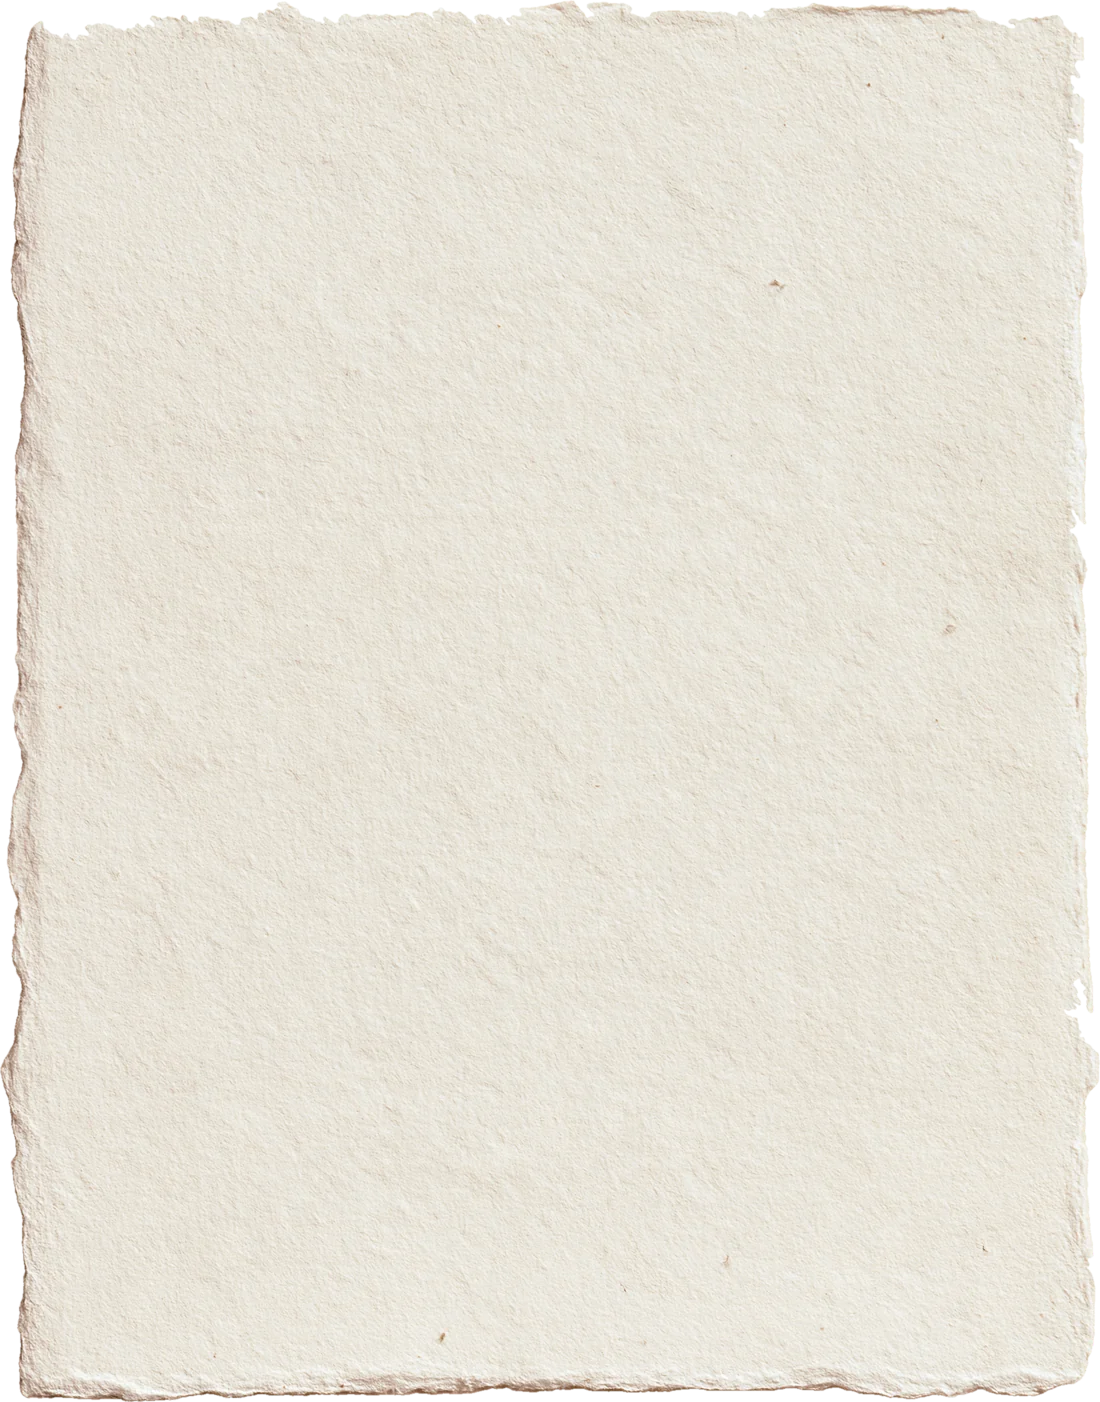
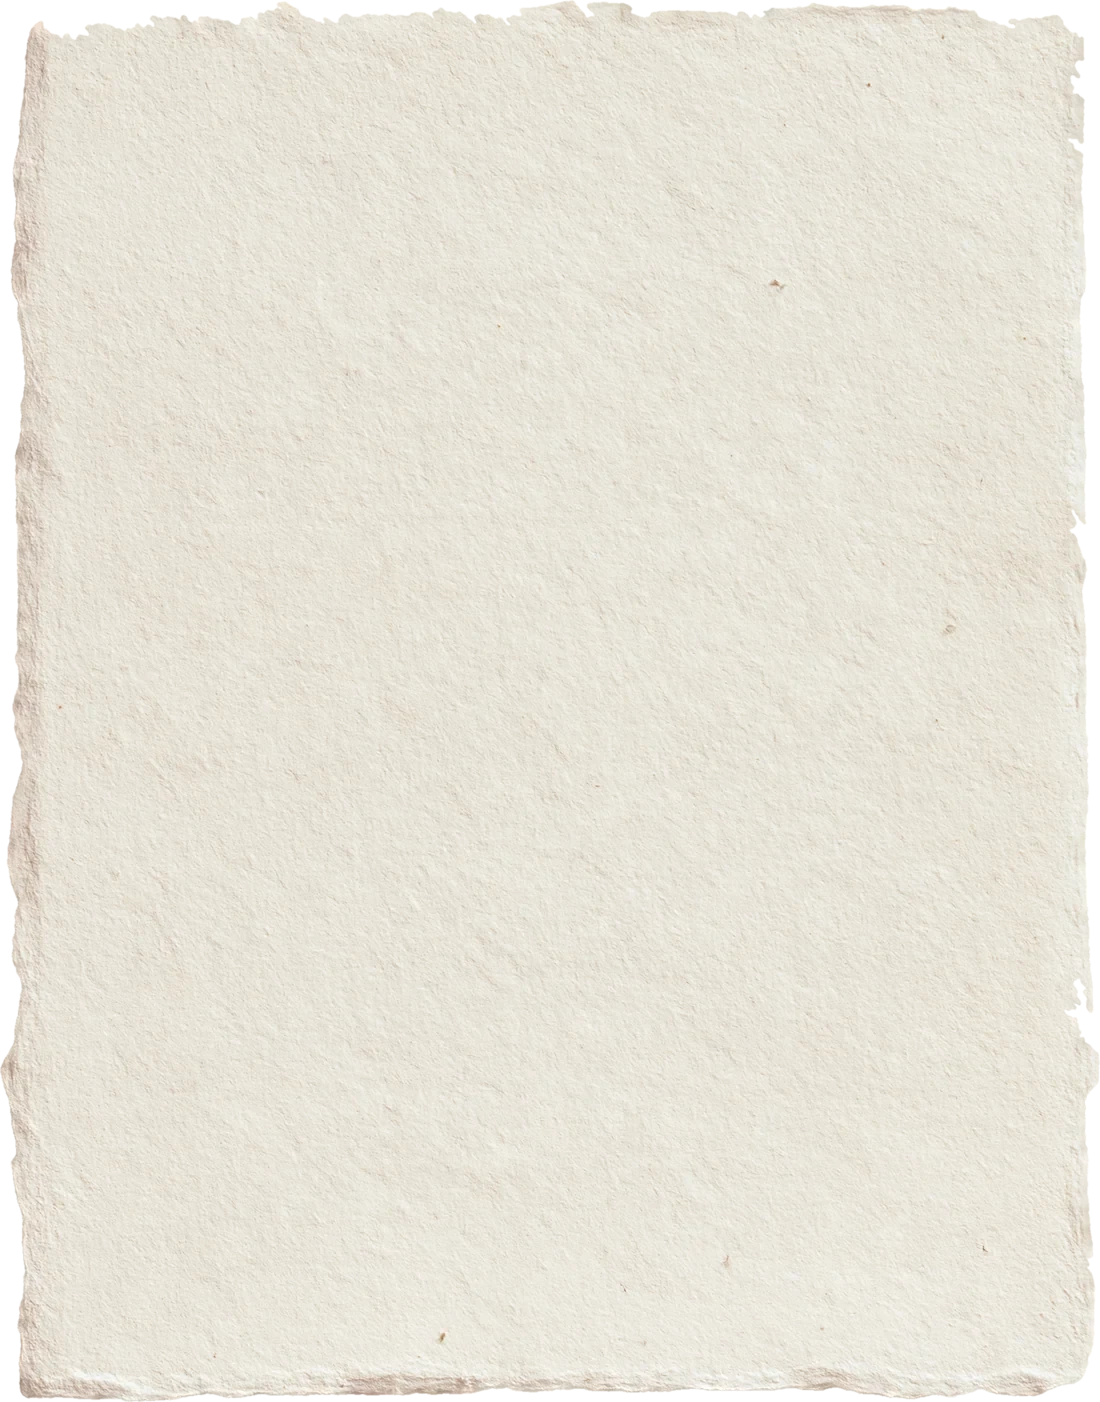
Wish: matched letter and box, a hand-drawn check, and a 3D drop-in
The letter and wishing box are the same size, the green tick is drawn to
fit the page, and the letter tilts into the slot like a solid object.
The Dear Friend letter now centres in the viewport with a softer shadow.

diff --git a/public/assets/site.css b/public/assets/site.css
@@ -1627,8 +1627,8 @@ body::after{ content: ""; position: absolute; inset: 0; z-index: 9990; pointer-e
 .island-hero, .intro-strip, .section, .letter-sec, .proof, .rides, .days, .joy-teaser, .site-header.solid{ background: transparent !important; }
 body[data-page="home"] .site-header.solid{ background: rgba(244,241,234,.88) !important; }
 /* letter: the deckled handmade sheet */
-.mail .letter{ background: url("img/letter-paper.webp?v=2") center / 100% 100% no-repeat; box-shadow: none; border-radius: 0;
-  filter: drop-shadow(0 2px 2px rgba(42,36,32,.16)) drop-shadow(0 18px 22px rgba(42,36,32,.22));
+.mail .letter{ background: url("img/letter-paper.webp?v=3") center / 100% 100% no-repeat; box-shadow: none; border-radius: 0;
+  filter: drop-shadow(0 1px 1px rgba(42,36,32,.10)) drop-shadow(0 10px 16px rgba(42,36,32,.12));
   min-height: calc(min(470px, 92vw) * 1402 / 1100); padding: 44px 42px 44px; }
 .mail.is-open .letter{ cursor: pointer; }
 .mail .letter{ transition: transform .24s cubic-bezier(.4,0,.2,1), clip-path .24s cubic-bezier(.4,0,.2,1); }
@@ -1817,39 +1817,53 @@ html, body{ overflow-x: clip; }
 .wishrow__copy h2{ text-align: left; }
 .wishrow__copy .lede{ margin: 0 0 14px !important; max-width: 26em; }
 .finale .finale__cta{ margin: 26px 0 0; border-top: 2px dashed rgba(42,36,32,.25); padding-top: 22px; max-width: none; text-align: left; }
-.wishrow__desk{ position: relative; display: flex; flex-direction: column; align-items: center; gap: 18px; }
-.wishpaper{ --lh: 2.1rem; position: relative; width: min(420px, 100%); aspect-ratio: 1100 / 1402; padding: 64px 40px 40px 58px; margin: 0;
+.wishrow__desk{ --wish-w: min(340px, 100%); position: relative; display: flex; flex-direction: column; align-items: center; gap: 22px; }
+.wishpaper{ --lh: 1.75rem; position: relative; z-index: 2; width: var(--wish-w); aspect-ratio: 1100 / 1402; padding: 52px 32px 34px 48px; margin: 0;
   background:
-    linear-gradient(90deg, transparent 44px, rgba(226,86,44,.45) 44px, rgba(226,86,44,.45) 46px, transparent 46px),
-    repeating-linear-gradient(180deg, transparent 0 calc(var(--lh) - 1px), rgba(5,136,196,.28) calc(var(--lh) - 1px) var(--lh)) 0 64px / 100% calc(100% - 100px) no-repeat,
+    linear-gradient(90deg, transparent 36px, rgba(226,86,44,.45) 36px, rgba(226,86,44,.45) 38px, transparent 38px),
+    repeating-linear-gradient(180deg, transparent 0 calc(var(--lh) - 1px), rgba(5,136,196,.28) calc(var(--lh) - 1px) var(--lh)) 0 52px / 100% calc(100% - 84px) no-repeat,
     linear-gradient(rgba(255,220,95,.62), rgba(255,200,70,.55)),
-    url("img/letter-paper.webp?v=2") center / 100% 100% no-repeat;
+    url("img/letter-paper.webp?v=3") center / 100% 100% no-repeat;
   background-blend-mode: normal, multiply, multiply, normal;
   filter: drop-shadow(0 2px 2px rgba(42,36,32,.15)) drop-shadow(0 16px 20px rgba(42,36,32,.2)); transform: rotate(-1.5deg);
   transition: transform .5s cubic-bezier(.5,0,.75,0), opacity .4s ease; }
 .wishpaper__text{ display: block; width: 100%; height: 100%; resize: none; border: 0; outline: none; background: transparent; padding: 0;
-  font-family: var(--f-letter); font-size: 1.6rem; line-height: var(--lh); color: #1f3e5a; caret-color: #1f3e5a; }
+  font-family: var(--f-letter); font-size: 1.35rem; line-height: var(--lh); color: #1f3e5a; caret-color: #1f3e5a; }
 .wishpaper__text::placeholder{ color: rgba(42,36,32,.32); }
 /* a blinking cursor waiting at the start of the first line */
-.wishpaper__caret{ position: absolute; left: 58px; top: 70px; width: 2px; height: 1.5rem; background: #1f3e5a; opacity: 0; pointer-events: none; }
+.wishpaper__caret{ position: absolute; left: 48px; top: 56px; width: 2px; height: 1.25rem; background: #1f3e5a; opacity: 0; pointer-events: none; }
 .wishpaper.is-empty:not(:focus-within) .wishpaper__caret{ animation: caret-blink 1.05s steps(1) infinite; }
 @keyframes caret-blink{ 0%, 49%{ opacity: .85; } 50%, 100%{ opacity: 0; } }
-.wishpaper__check{ position: absolute; right: 24px; bottom: 26px; width: 54px; height: 54px; border-radius: 50%; border: 0; cursor: pointer;
-  color: #fff; background: radial-gradient(circle at 38% 32%, #6fd39a, #35a468 55%, #1d6a40); box-shadow: 0 4px 0 #1d6a40, 0 8px 12px rgba(42,36,32,.25);
-  transition: transform .15s ease, box-shadow .15s ease; }
-.wishpaper__check svg{ width: 60%; height: 60%; display: block; margin: auto; }
-.wishpaper__check:hover{ transform: translateY(-2px) scale(1.05); }
-.wishpaper__check:active{ transform: translateY(3px); box-shadow: 0 1px 0 #1d6a40, 0 3px 6px rgba(42,36,32,.25); }
-.wishpaper__check:focus-visible{ outline: 3px solid var(--c-lochmara); outline-offset: 4px; }
+.wishpaper__check{ position: absolute; right: 18px; bottom: 20px; width: 62px; height: 62px; padding: 0; border: 0; border-radius: 50%; cursor: pointer; background: none; color: #2a2420;
+  filter: drop-shadow(1px 3px 0 rgba(42,36,32,.22)); transform: rotate(-3deg); transition: transform .22s cubic-bezier(.3,1.5,.5,1), filter .2s ease; }
+.wishpaper__check svg{ width: 100%; height: 100%; display: block; overflow: visible; }
+/* hand-drawn: crayon fill that doesn't quite meet the pencil line, a doubled inked outline, a thick inked tick */
+.chk__shade{ fill: #1d7a47; opacity: .85; }
+.chk__fill{ fill: #4cbd7d; }
+.chk__hatch path{ fill: none; stroke: #8fe0ab; stroke-width: 2.2; stroke-linecap: round; opacity: .55; }
+.chk__ink{ fill: none; stroke: #2a2420; stroke-width: 2.4; stroke-linecap: round; stroke-linejoin: round; }
+.chk__ink--2{ stroke-width: 1.1; opacity: .55; }
+.chk__tick-ink{ fill: none; stroke: #2a2420; stroke-width: 10; stroke-linecap: round; stroke-linejoin: round; }
+.chk__tick{ fill: none; stroke: #fffaf0; stroke-width: 6; stroke-linecap: round; stroke-linejoin: round; stroke-dasharray: 60; stroke-dashoffset: 0; }
+.wishpaper__check:hover{ transform: rotate(-7deg) scale(1.07); filter: drop-shadow(1px 4px 0 rgba(42,36,32,.2)); }
+.wishpaper__check:hover .chk__tick{ animation: chk-draw .4s ease-out; }
+.wishpaper__check:active{ transform: translateY(2px) rotate(-2deg) scale(.94); filter: drop-shadow(0 1px 0 rgba(42,36,32,.25)); transition-duration: .08s; }
+.wishpaper__check:focus-visible{ outline: 3px solid var(--c-lochmara); outline-offset: 4px; border-radius: 50%; }
+@keyframes chk-draw{ from{ stroke-dashoffset: 60; } to{ stroke-dashoffset: 0; } }
 .wishpaper.is-nudge{ animation: paper-nudge .4s ease; }
 @keyframes paper-nudge{ 25%{ transform: rotate(-1.5deg) translateX(-8px); } 75%{ transform: rotate(-1.5deg) translateX(8px); } }
-/* sending: fold small, fly into the slot, disappear */
-.wishpaper.is-sending{ transform: translate(var(--to-x), var(--to-y)) rotate(8deg) scale(.08, .05); opacity: 0;
-  transition: transform .9s cubic-bezier(.45,0,.3,1), opacity .3s ease .62s; }
+/* sending: the letter folds narrow, tilts in 3D and slides down the slot (animated in home.js); the front of the box is redrawn over it so it passes behind the lip */
+.wishpaper.is-sending{ pointer-events: none; transition: none; will-change: transform; }
 .wishpaper.is-fresh{ animation: paper-fresh .5s ease both; }
 @keyframes paper-fresh{ from{ opacity: 0; transform: rotate(-1.5deg) translateY(-16px); } to{ opacity: 1; transform: rotate(-1.5deg); } }
-.wishbox{ width: min(240px, 60%); height: auto; filter: drop-shadow(0 12px 14px rgba(42,36,32,.2)); transition: transform .25s cubic-bezier(.3,1.6,.5,1), filter .3s ease; }
-.wishbox.is-catching{ transform: translateY(4px) scale(1.04); filter: drop-shadow(0 0 18px rgba(255,214,120,.9)) drop-shadow(0 12px 14px rgba(42,36,32,.2)); }
+.wishbox{ position: relative; width: var(--wish-w); }
+.wishbox__img{ position: relative; z-index: 1; display: block; width: 100%; height: auto; filter: drop-shadow(0 12px 14px rgba(42,36,32,.2)); transform-origin: 50% 90%; }
+.wishbox__front{ position: absolute; inset: 0; z-index: 3; width: 100%; height: 100%; opacity: 0; pointer-events: none; transform-origin: 50% 90%;
+  clip-path: polygon(0 11.7%, 100% 35.7%, 100% 100%, 0 100%); }
+.wishbox.is-receiving .wishbox__front{ opacity: 1; }
+.wishbox.is-catching .wishbox__img, .wishbox.is-catching .wishbox__front{ animation: box-catch .55s cubic-bezier(.3,1.4,.5,1); }
+.wishbox.is-catching .wishbox__img{ filter: drop-shadow(0 0 18px rgba(255,214,120,.9)) drop-shadow(0 12px 14px rgba(42,36,32,.2)); }
+@keyframes box-catch{ 0%{ transform: none; } 30%{ transform: translateY(5px) scale(1.035, .965); } 65%{ transform: translateY(-2px) scale(.99, 1.01); } 100%{ transform: none; } }
 /* the cake: wider than the screen, only the top half shows */
 .cake--big{ margin-top: clamp(30px, 5vw, 70px); text-align: center; }
 .cake--big .cake__hint{ position: relative; z-index: 2; margin: 0 0 10px; }
@@ -1860,6 +1874,7 @@ html, body{ overflow-x: clip; }
 .cake--big .candle__flame{ width: 240%; }
 .cake--big .cake__hint{ order: -1; }
 .cake--big{ display: flex; flex-direction: column; }
+
 .confetti-rain{ position: fixed; inset: 0; width: 100vw; height: 100vh; z-index: 9995; pointer-events: none; }
 @media (max-width: 820px){ .wishrow{ grid-template-columns: 1fr; } }
 
@@ -1884,6 +1899,7 @@ body{ isolation: isolate; }
 /* letter: 20% wider, height follows the words (so it's shorter), clean deckled sheet */
 .mail .letter{ width: min(564px, 94vw); margin-left: calc(min(564px, 94vw) / -2); min-height: 0 !important; padding: 48px 52px 46px; }
 @media (max-width: 520px){ .mail .letter{ padding: 34px 26px 32px; } }
+
 /* =====================================================================
    TWO DOORS, Wonderland: separate whimsical doors; one leaf each that
    swings open on its hinge, the knob on the free edge

diff --git a/public/assets/home.js b/public/assets/home.js
@@ -287,20 +287,35 @@
       if (busy) return;
       if (!input.value.trim()){ form.classList.remove("is-nudge"); void form.offsetWidth; form.classList.add("is-nudge"); input.focus(); return; }
       busy = true; input.blur();
-      // aim the folded paper at the slot in the box's lid
-      var pr = form.getBoundingClientRect(), br = box.getBoundingClientRect();
-      form.style.setProperty("--to-x", (br.left + br.width * .52 - (pr.left + pr.width / 2)).toFixed(0) + "px");
-      form.style.setProperty("--to-y", (br.top + br.height * .2 - (pr.top + pr.height / 2)).toFixed(0) + "px");
-      form.classList.add("is-sending");
-      setTimeout(function(){ box.classList.add("is-catching"); }, reduced ? 0 : 650);
-      setTimeout(function(){
+      var anim = null;
+      function done(){
         n++; input.value = ""; sync();
+        if (anim){ anim.cancel(); anim = null; }
+        form.style.transformOrigin = "";
         form.classList.remove("is-sending"); form.classList.add("is-fresh");
-        box.classList.remove("is-catching");
+        box.classList.remove("is-receiving");
         count.textContent = n === 1 ? "Your wish is in the box. Now blow out the candles." : n + " wishes in the box. Blow out the candles for luck.";
         if (window.JOY && window.JOY.relightCake) window.JOY.relightCake();
-        setTimeout(function(){ form.classList.remove("is-fresh"); busy = false; }, 500);
-      }, reduced ? 50 : 1150);
+        setTimeout(function(){ form.classList.remove("is-fresh"); box.classList.remove("is-catching"); busy = false; }, 600);
+      }
+      if (reduced){ form.classList.add("is-sending"); setTimeout(done, 50); return; }
+      /* the letter folds narrow, tips back in 3D and sinks into the slot; the front of the box is redrawn over it, so it goes in behind the lip */
+      var pr = form.getBoundingClientRect(), br = box.getBoundingClientRect();
+      var sx = br.left + br.width * .52, sy = br.top + br.height * .245;       // centre of the slot's front lip (art: 312/600, 114/470)
+      var s = Math.min(.42, br.width * .44 / pr.width);                         // narrow enough for the slot
+      var dx = sx - (pr.left + pr.width / 2), dyAbove = (sy - 26) - pr.bottom;
+      var dyIn = (sy + pr.height * s * .5 + 26) - pr.bottom;                    // top edge sunk below the lip
+      function T(x, y, rx, sc, rot){ return "translate(" + x.toFixed(1) + "px," + y.toFixed(1) + "px) perspective(900px) rotateX(" + rx + "deg) rotate(" + rot + "deg) scale(" + sc.toFixed(3) + ")"; }
+      form.classList.add("is-sending"); box.classList.add("is-receiving");
+      form.style.transformOrigin = "50% 100%";
+      anim = form.animate([
+        { offset: 0,   transform: "rotate(-1.5deg)" },
+        { offset: .14, transform: T(dx * .05, -16, 0, 1.02, -2.5), easing: "cubic-bezier(.45,0,.2,1)" },   // small lift
+        { offset: .5,  transform: T(dx, dyAbove, 28, s, 8), easing: "cubic-bezier(.4,0,.5,1)" },           // folds narrow, tips back over the slot
+        { offset: .58, transform: T(dx, dyAbove + 6, 28, s, 10), easing: "cubic-bezier(.5,0,.8,.6)" },
+        { offset: 1,   transform: T(dx, dyIn, 22, s, 10) }                                                  // slides down inside
+      ], { duration: 1500, fill: "forwards" });
+      anim.onfinish = function(){ box.classList.add("is-catching"); setTimeout(done, 160); };
     });
   })();
 

diff --git a/public/index.html b/public/index.html
@@ -190,10 +190,27 @@
           <textarea class="wishpaper__text" id="wish-text" maxlength="160" rows="5" placeholder="I want to laugh with strangers" required></textarea>
           <span class="wishpaper__caret" aria-hidden="true"></span>
           <button class="wishpaper__check" type="submit" aria-label="Drop the wish into the wishing box">
-            <svg viewBox="0 0 40 40" aria-hidden="true"><path d="M10 21 l7 7 l14 -16" fill="none" stroke="currentColor" stroke-width="5" stroke-linecap="round" stroke-linejoin="round"/></svg>
+            <svg viewBox="0 0 64 64" aria-hidden="true" focusable="false">
+              <defs>
+                <filter id="wobble-ink" x="-10%" y="-10%" width="120%" height="120%"><feTurbulence type="fractalNoise" baseFrequency=".045" numOctaves="2" seed="7" result="n"/><feDisplacementMap in="SourceGraphic" in2="n" scale="2.6"/></filter>
+                <clipPath id="wobble-clip"><path d="M33 7 C47 5 59 16 58 32 C57 48 46 59 31 58 C16 57 6 47 7 32 C8 17 19 8 33 7 Z"/></clipPath>
+              </defs>
+              <g filter="url(#wobble-ink)">
+                <path class="chk__shade" d="M35 9 C49 9 60 19 59 35 C58 50 47 60 32 60 C17 60 8 50 9 35 C10 22 20 10 35 9 Z"/>
+                <path class="chk__fill" d="M33 7 C47 5 59 16 58 32 C57 48 46 59 31 58 C16 57 6 47 7 32 C8 17 19 8 33 7 Z"/>
+                <g clip-path="url(#wobble-clip)" class="chk__hatch"><path d="M4 22 L30 4 M4 34 L46 4 M4 46 L58 8 M8 58 L60 20 M20 62 L62 32 M34 62 L62 44"/></g>
+                <path class="chk__ink" d="M32 6.5 C47 4.5 60 15 59 32 C58.5 49 46 60 30.5 59 C15 58 5.5 47 6.5 31.5 C7.5 16 18 8 32 6.5 Z"/>
+                <path class="chk__ink chk__ink--2" d="M35 8 C49 8 58 19 57.5 33 C57 48 45 58 31 57.5 C18 57 9 46.5 8.5 33 C8 20 20 9 35 8 Z"/>
+                <path class="chk__tick-ink" d="M17 33.5 C21 37 24.5 41 27 45.5 C33 34.5 41 24 49.5 17"/>
+                <path class="chk__tick" d="M17 33.5 C21 37 24.5 41 27 45.5 C33 34.5 41 24 49.5 17"/>
+              </g>
+            </svg>
           </button>
         </form>
-        <img class="wishbox" id="wishbox" src="assets/img/wishbox.webp" alt="A wooden wishing box" width="600" height="450" loading="lazy" decoding="async">
+        <div class="wishbox" id="wishbox">
+          <img class="wishbox__img" src="assets/img/wishbox.webp" alt="A wooden wishing box" width="600" height="470" loading="lazy" decoding="async">
+          <img class="wishbox__front" src="assets/img/wishbox.webp" alt="" aria-hidden="true" width="600" height="470" decoding="async">
+        </div>
       </div>
     </div>
     <div class="cake cake--big" id="cake">

diff --git a/public/assets/letter.js b/public/assets/letter.js
@@ -97,7 +97,7 @@
       { offset: .28,  transform: p.t, clipPath: p.clip, easing: "cubic-bezier(.2,.75,.3,1)" },
       { offset: .56,  transform: q.t + " rotate(-1.6deg)", clipPath: q.clip, easing: "ease-in-out" },
       { offset: .64,  transform: q.t + " rotate(.7deg)", clipPath: q.clip, easing: "cubic-bezier(.3,1.25,.45,1)" },
-      { offset: 1,    transform: "translate(0,0) scale(1) rotate(0deg)", clipPath: "inset(0px 0px 0px 0px)" }
+      { offset: 1,    transform: "translate(0,0) scale(1) rotate(0deg)", clipPath: "inset(-80px -80px -120px -80px)" }   // open: clip reaches past the sheet so its shadow is never cut into a box
     ], opts));
     anims.push(mail.animate([
       { offset: 0, height: closedHeight() }, { offset: .62, height: closedHeight(), easing: "cubic-bezier(.4,0,.2,1)" }, { offset: 1, height: openHeight() }
@@ -119,11 +119,23 @@
     if (state !== "closed") return;
     if (!built) build();
     state = "opening"; btn.setAttribute("aria-expanded", "true"); btn.disabled = true;
+    centreLetter();
     mail.classList.add("is-flap"); burst();
     run(1, function(){
       state = "open"; mail.classList.add("is-open", "is-writing");
       letter.setAttribute("title", "Click to fold the letter back into its envelope");
     });
+  }
+
+
+  /* glide so the open letter sits in the middle of the window (both ways), clear of the sticky header if it is tall */
+  function centreLetter(){
+    var m = mail.getBoundingClientRect(), vw = document.documentElement.clientWidth, vh = innerHeight;
+    var h = letter.offsetHeight, w = letter.offsetWidth;
+    var topDoc = scrollY + m.top + letter.offsetTop, leftDoc = scrollX + m.left + letter.offsetLeft;
+    var y = topDoc + h / 2 - vh / 2, x = leftDoc + w / 2 - vw / 2;
+    if (h + 120 > vh) y = topDoc - 84;
+    scrollTo({ top: Math.max(0, y), left: Math.max(0, x), behavior: reduced ? "auto" : "smooth" });
   }
 
   function close(){
